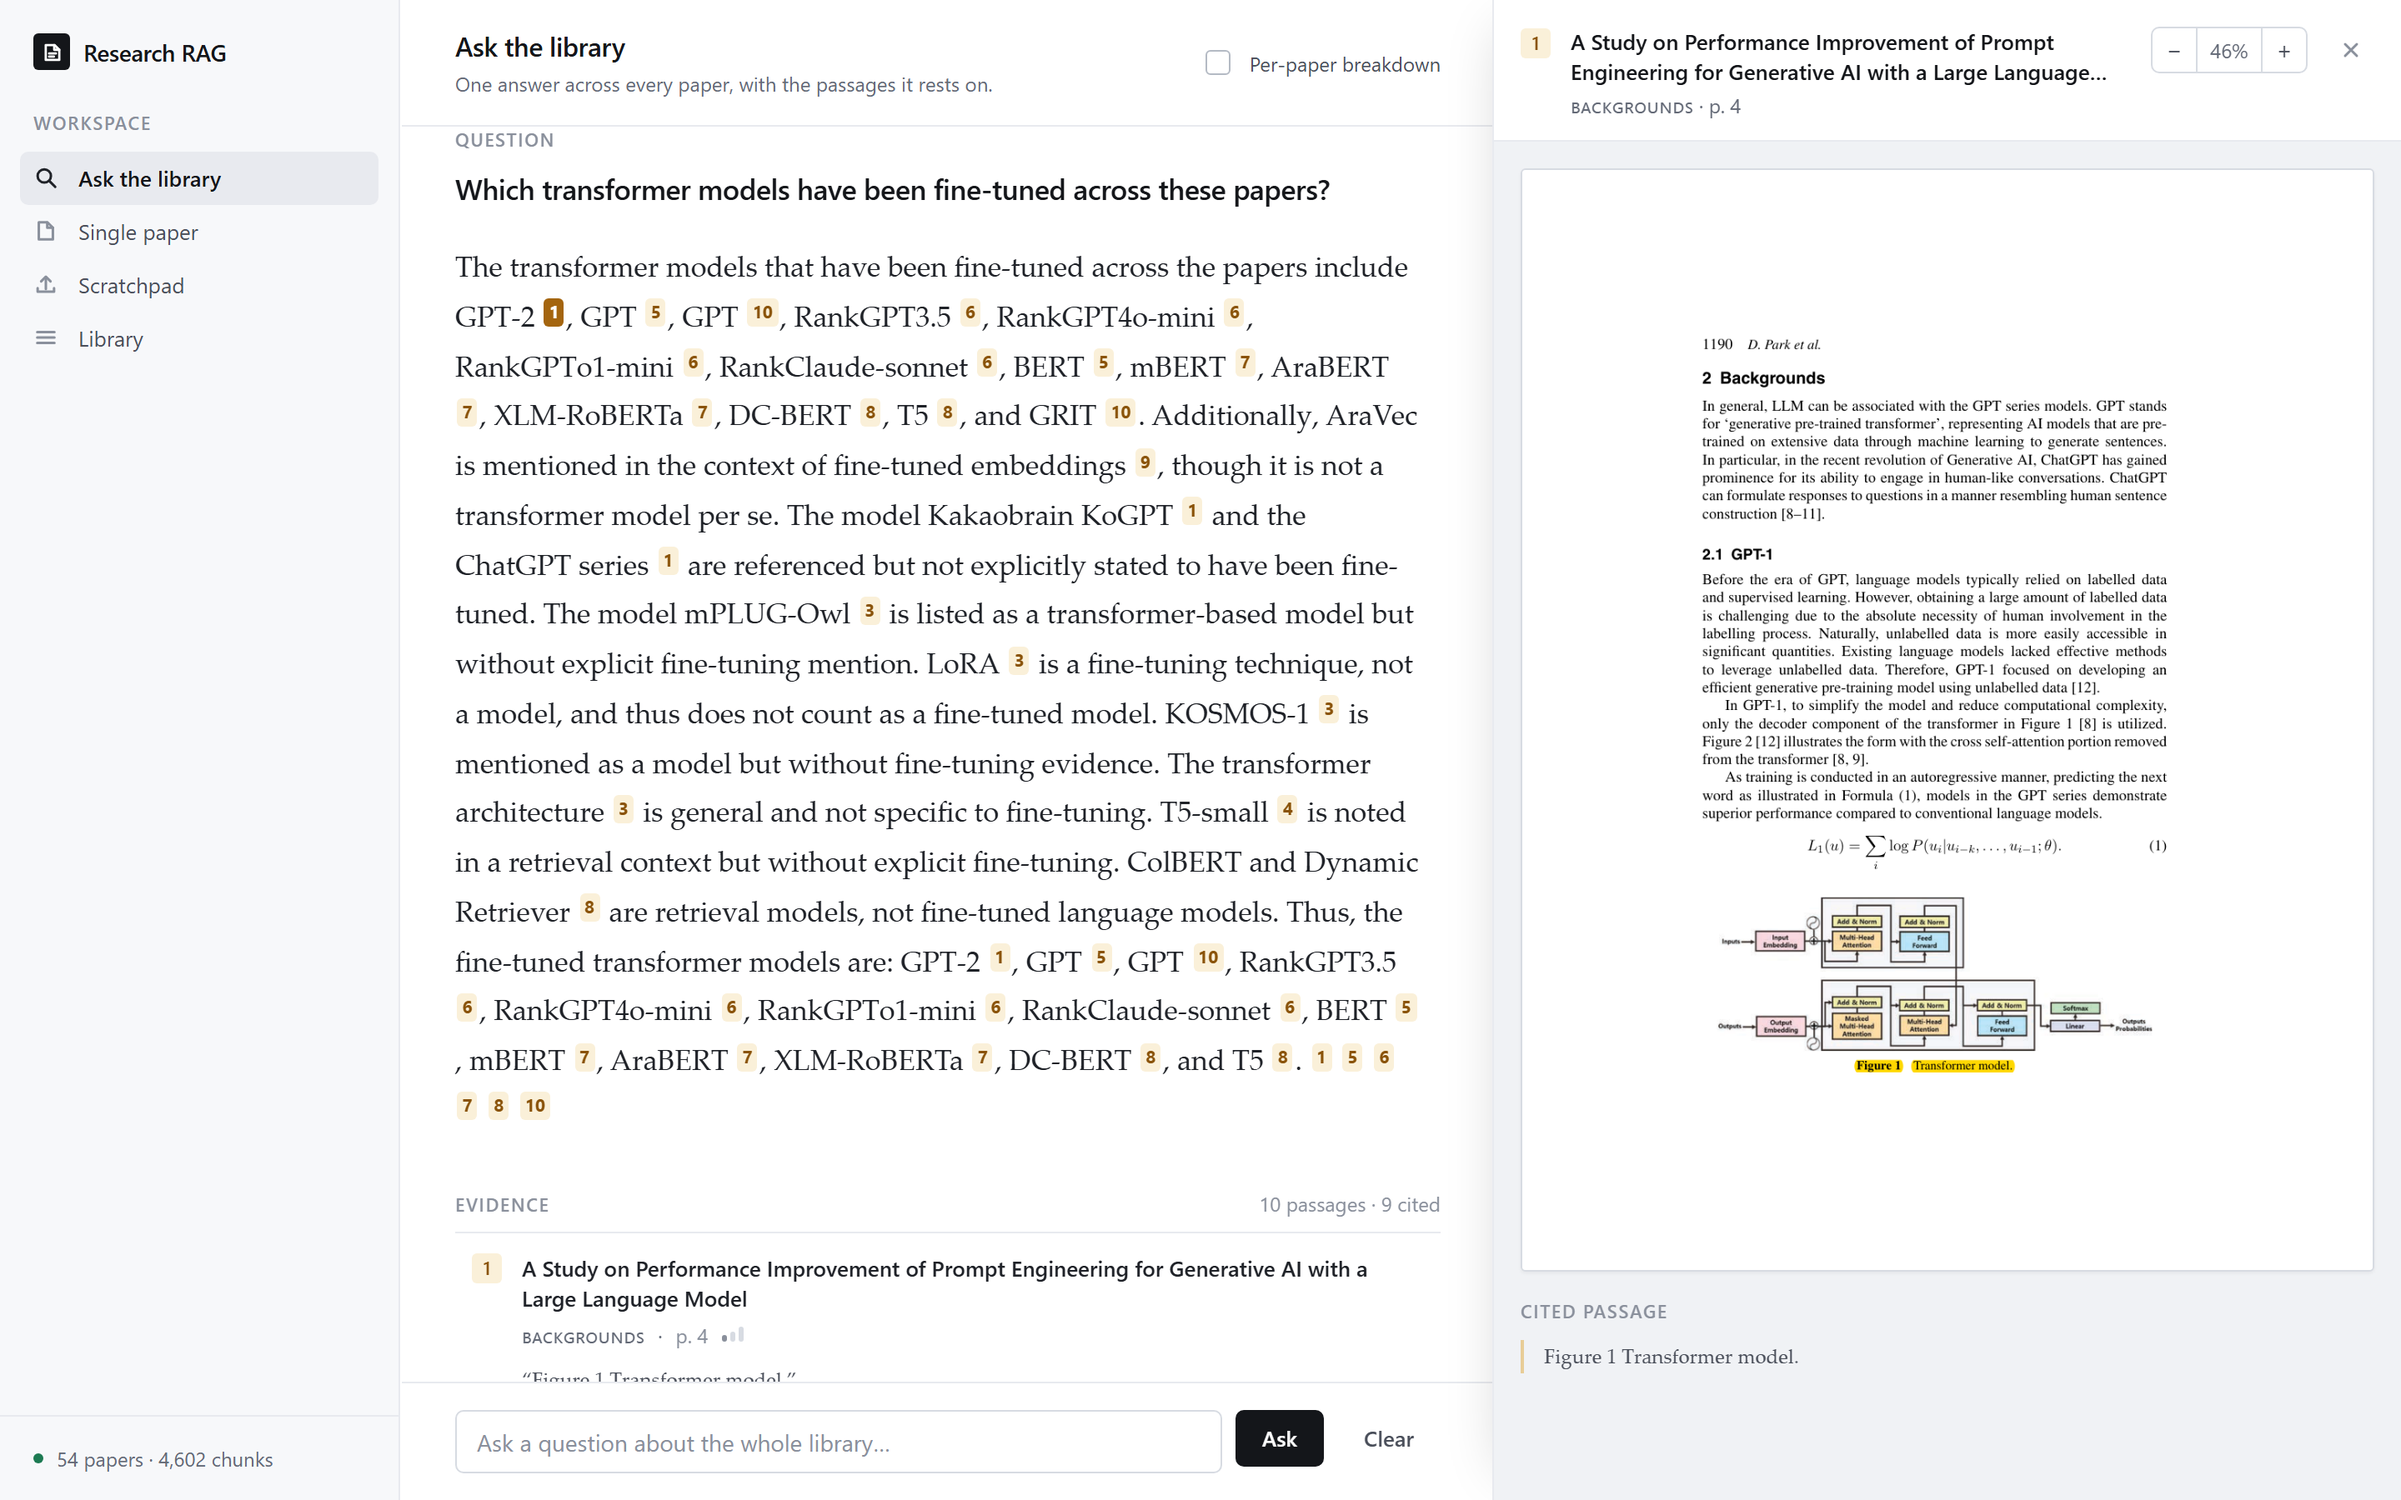
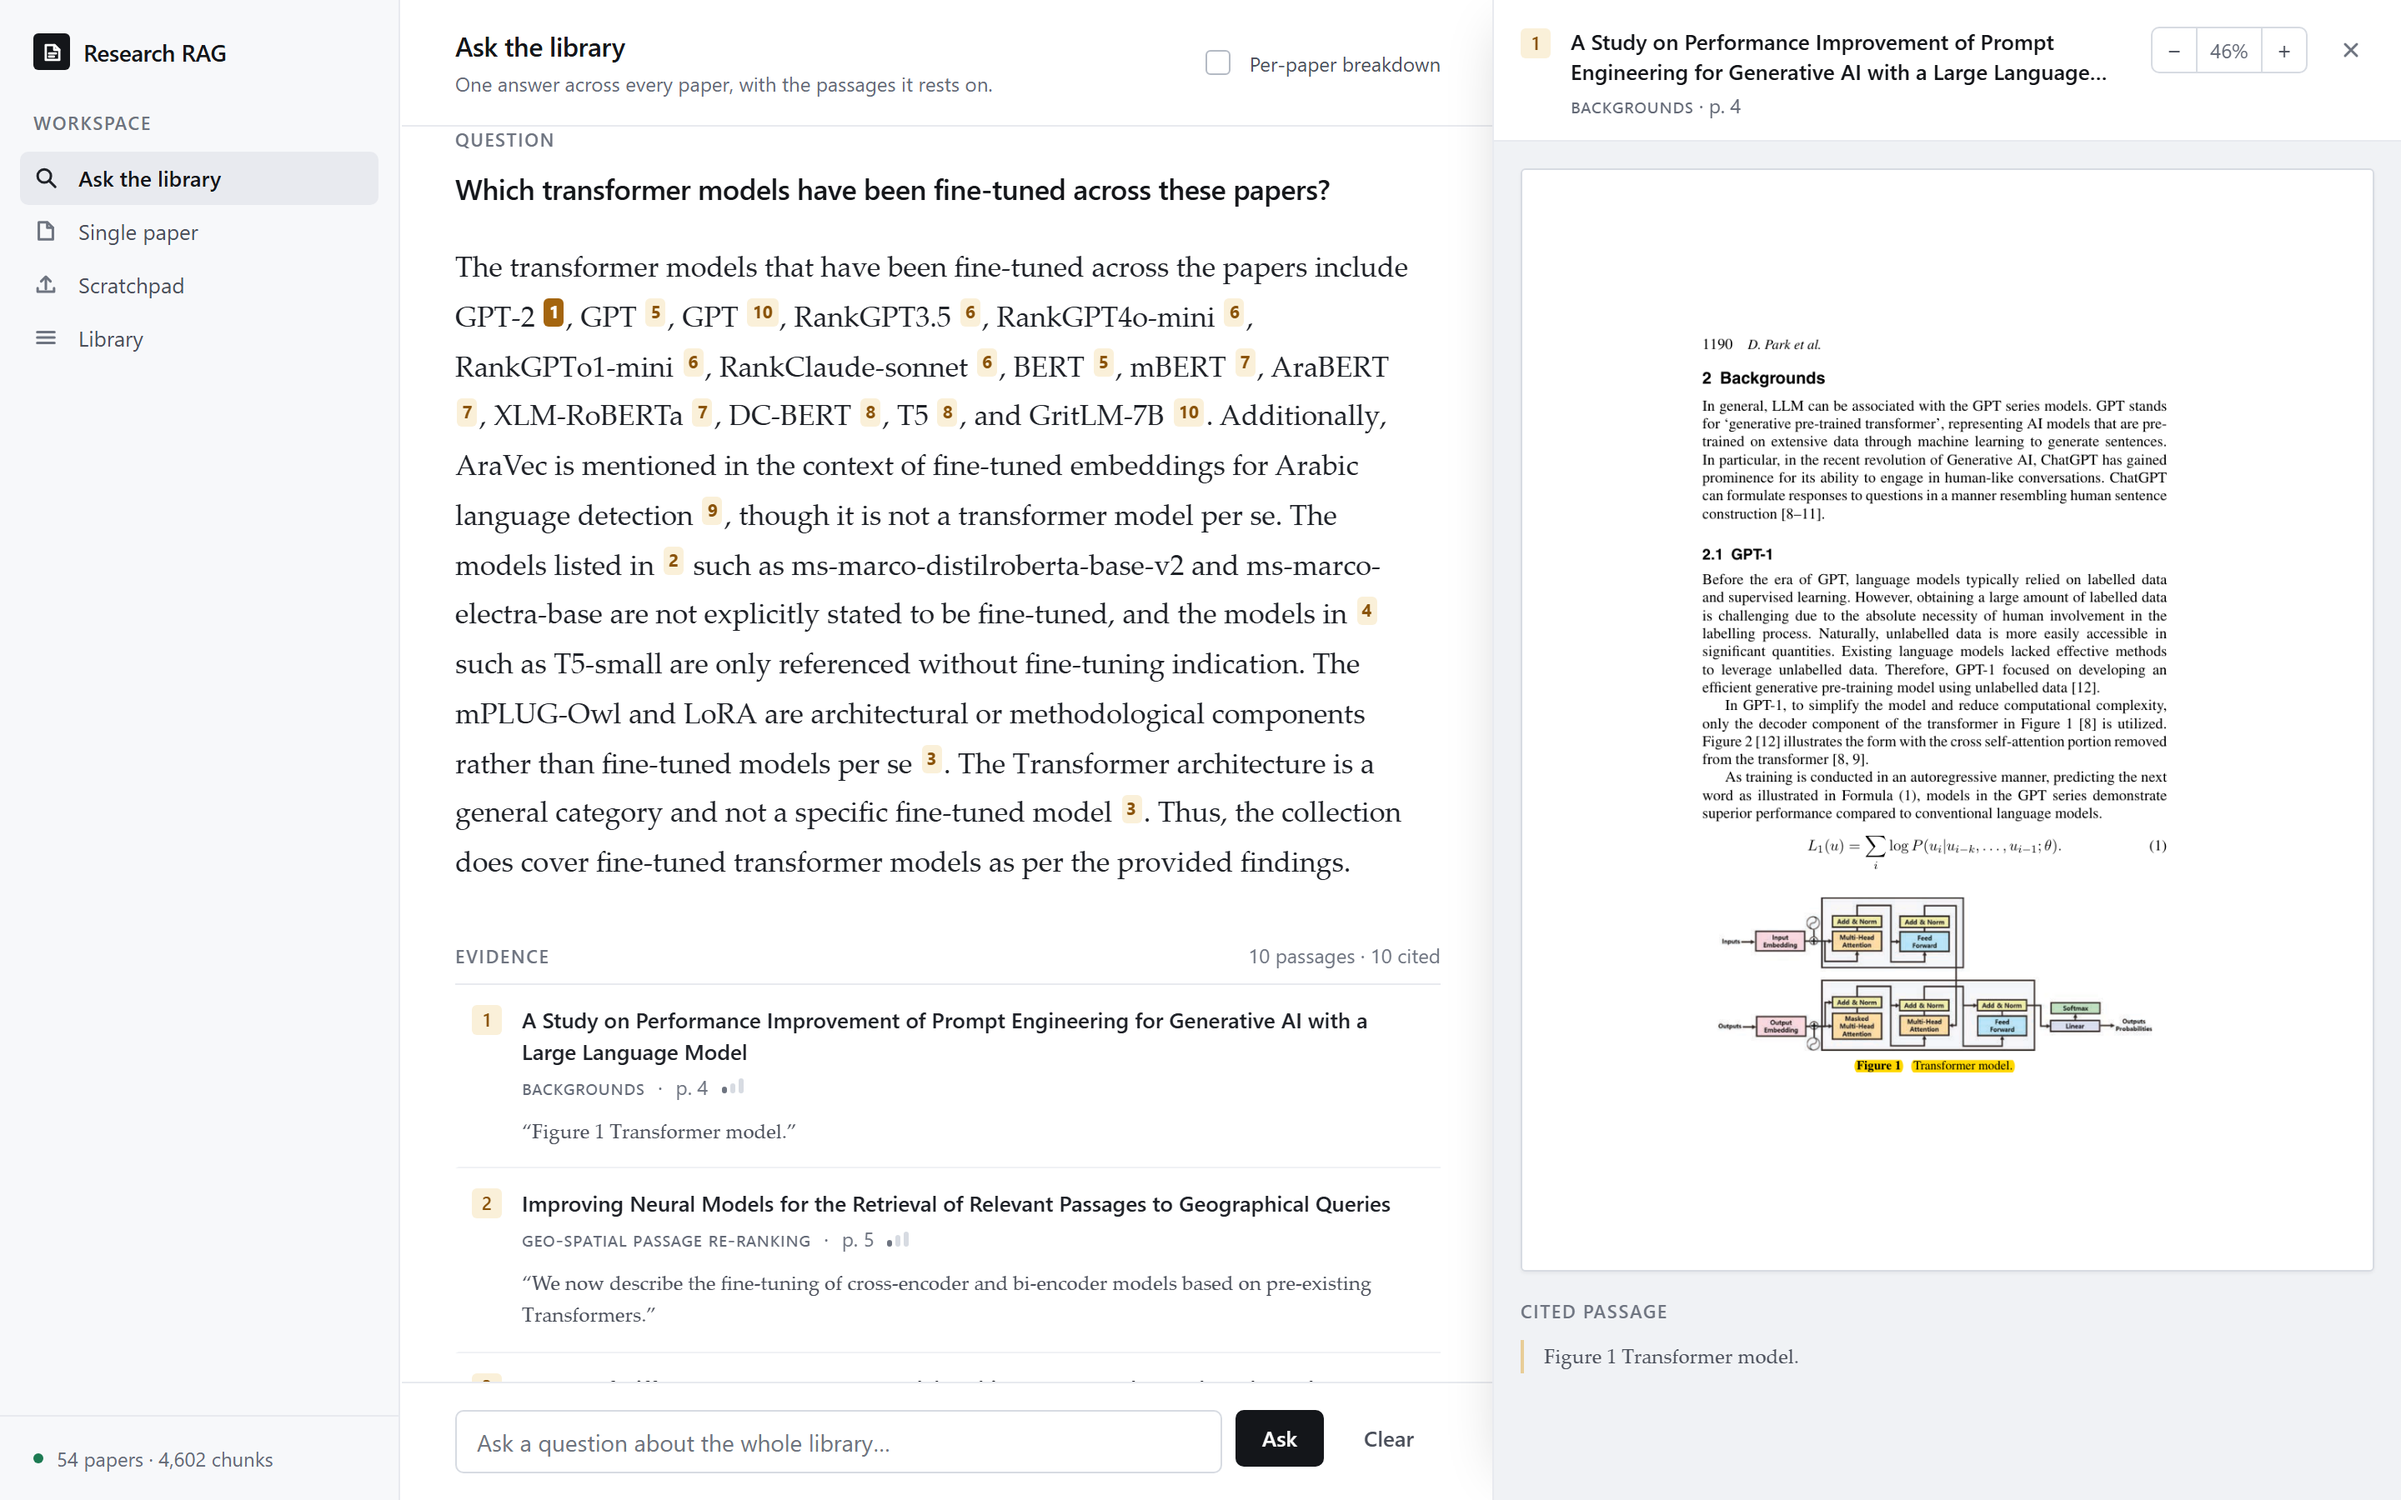
Fix the metadata grey, which failed AA for text
Measured the palette rather than trusting it. The quiet grey carrying eyebrows,
page numbers, passage counts and "not cited" came out at 3.21:1 on white -
below the 4.5:1 AA needs for text, and all of it is text a reader is meant to
read, at 11px. Darkened to 4.69:1, which is still clearly secondary against the
15.9:1 answer body.

First attempt moved the nav icons to a lighter tone to keep them feeling quiet;
that measured 1.95:1, failing even the 3:1 threshold that applies to non-text,
so they use the same tone as the metadata.

Every remaining text colour now clears AA: answer 15.94, UI 8.21, secondary
5.43, metadata 4.69, citation markers 6.32 on their amber ground.

Changed region(s): [[0.1875, 0.2489, 0.5938, 0.7467], [0.1875, 0.7778, 0.5938, 0.9022]]

diff --git a/static/index.html b/static/index.html
@@ -34,7 +34,12 @@
   --ink-700: #333741;
   --ink-600: #4a4f5a;
   --ink-500: #646a77;
-  --ink-400: #8a909c;
+  /* 4.69:1 on white. The obvious lighter grey for metadata measured 3.21:1,
+     which fails AA for text - and here it carried eyebrows, page numbers and
+     "not cited" at 11px, all of which a reader is meant to be able to read.
+     Icons use this too: ink-300 measured 1.95:1, which fails even the 3:1
+     threshold that applies to non-text. */
+  --ink-400: #6e7480;
   --ink-300: #b4bac4;
   --ink-200: #d7dbe2;
   --ink-100: #e8eaef;
